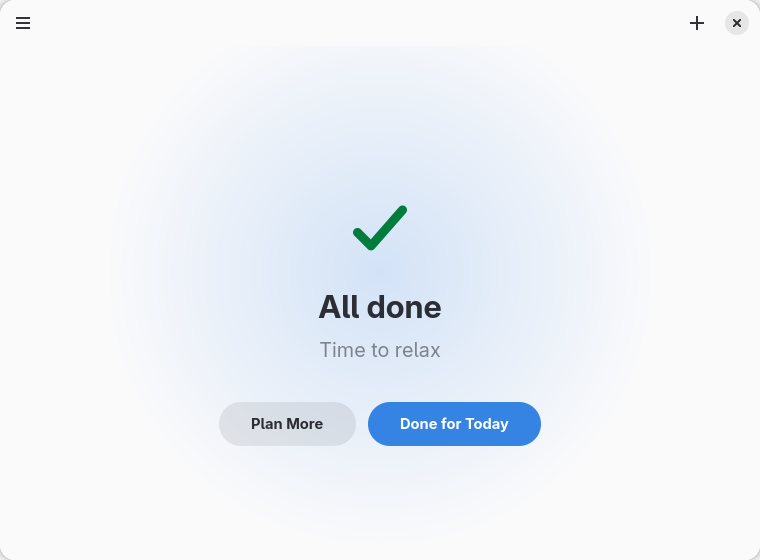
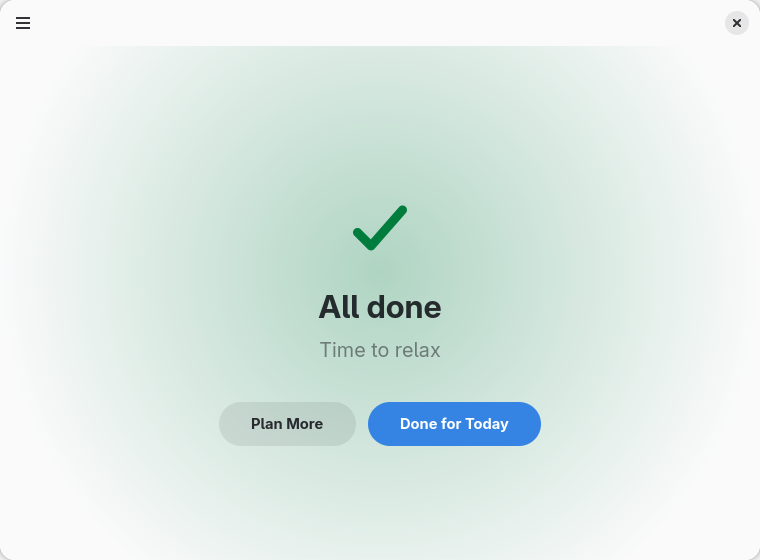
Let the wash turn green when the list is cleared
Finishing everything is the one moment the app has, so the vignette moves from
the accent colour to the green of the check and blooms outwards over eight
hundred milliseconds — slower than the quarter second between tasks, because
this one is worth dwelling on.

Whether the wash is drawn at all still belongs to the contrast setting, which
the finished state leaves alone.

diff --git a/src/style.css b/src/style.css
@@ -34,6 +34,15 @@
   background-image: radial-gradient(circle at 50% 44%,
                                     color-mix(in srgb, var(--accent-bg-color) 20%, transparent) 0%,
                                     transparent 58%);
+  transition: background-image 800ms cubic-bezier(0.25, 0.46, 0.45, 0.94);
+}
+
+/* Clearing the list turns the wash green and lets it bloom outwards. The
+   moment is worth a slower curve than the transitions between tasks. */
+.focus-surface.finished {
+  background-image: radial-gradient(circle at 50% 44%,
+                                    color-mix(in srgb, var(--success-color) 30%, transparent) 0%,
+                                    transparent 80%);
 }
 
 /* libadwaita marks the window's size class for us. In the smallest supported

diff --git a/src/screenshot.rs b/src/screenshot.rs
@@ -25,6 +25,8 @@ use crate::window::NowdothisWindow;
 ///   empty or full list would otherwise open on.
 /// - `NOWDOTHIS_SNAPSHOT_ACTION` — an action to fire first, so states that only
 ///   appear on demand, such as a dialog, can be captured.
+/// - `NOWDOTHIS_SNAPSHOT_DELAY` — milliseconds to wait after that action, to
+///   catch an animation part way through.
 pub fn capture(window: &NowdothisWindow) {
     let Ok(path) = std::env::var("NOWDOTHIS_SNAPSHOT") else {
         return;
@@ -69,8 +71,14 @@ pub fn capture(window: &NowdothisWindow) {
             }
         }
 
+        // Shortened to catch an animation part way through.
+        let delay = std::env::var("NOWDOTHIS_SNAPSHOT_DELAY")
+            .ok()
+            .and_then(|value| value.parse().ok())
+            .unwrap_or(700);
+
         let window = window.clone();
-        glib::timeout_add_local_once(std::time::Duration::from_millis(700), move || {
+        glib::timeout_add_local_once(std::time::Duration::from_millis(delay), move || {
             if std::env::var("NOWDOTHIS_TAB_ORDER").is_ok() {
                 for step in 1..=6 {
                     window.child_focus(gtk::DirectionType::TabForward);

diff --git a/src/window.rs b/src/window.rs
@@ -320,6 +320,14 @@ impl NowdothisWindow {
         // Hidden rather than insensitive: a greyed-out suggested-action button
         // reads as broken, and there is nothing to start anyway.
         imp.start_button.set_visible(!tasks.is_empty());
+        // Only the finished state is touched here: whether the wash is drawn at
+        // all belongs to set_vignette, which answers to the contrast setting.
+        if tasks.is_empty() {
+            imp.focus_surface.add_css_class("finished");
+        } else {
+            imp.focus_surface.remove_css_class("finished");
+        }
+
         // One way out at a time: with nothing left to do, Plan More is the only
         // offer to add something, and Edit List leads where it already goes.
         imp.edit_button.set_visible(!tasks.is_empty());

diff --git a/CLAUDE.md b/CLAUDE.md
@@ -38,8 +38,10 @@ variables yourself:
         NOWDOTHIS_SNAPSHOT_PAGE=plan _build/screenshot/debug/nowdothis
 
 `NOWDOTHIS_SNAPSHOT_ACTION` fires an action first, for states that only appear
-on demand such as a dialog, and `NOWDOTHIS_TAB_ORDER=1` prints the focus chain,
-which is how keyboard reachability gets checked after a layout change.
+on demand such as a dialog, `NOWDOTHIS_SNAPSHOT_DELAY` shortens the wait
+so an animation can be caught part way through, and `NOWDOTHIS_TAB_ORDER=1`
+prints the focus chain, which is how keyboard reachability gets checked after a
+layout change.
 
 Pair it with `ADW_DEBUG_COLOR_SCHEME=prefer-dark` and
 `ADW_DEBUG_HIGH_CONTRAST=1`. Dark mode, high contrast and text scaling are all
